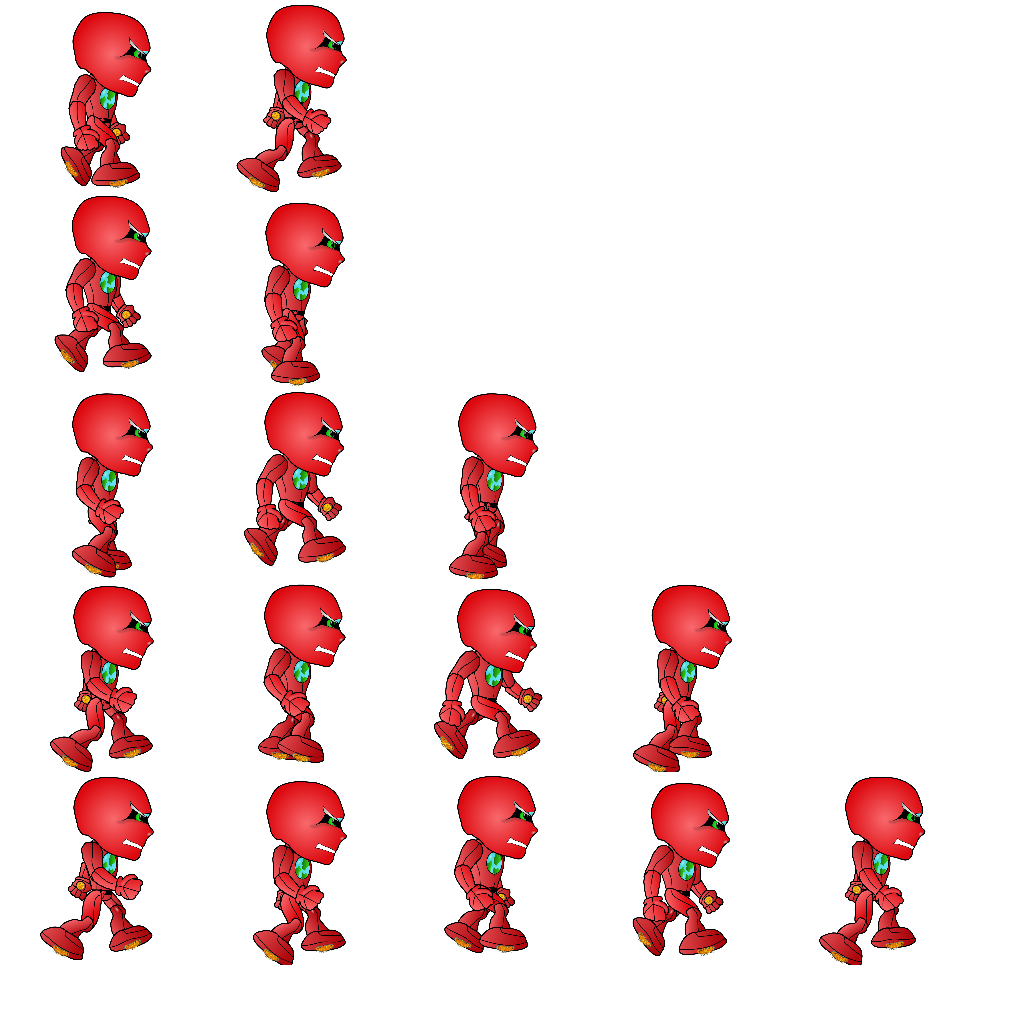
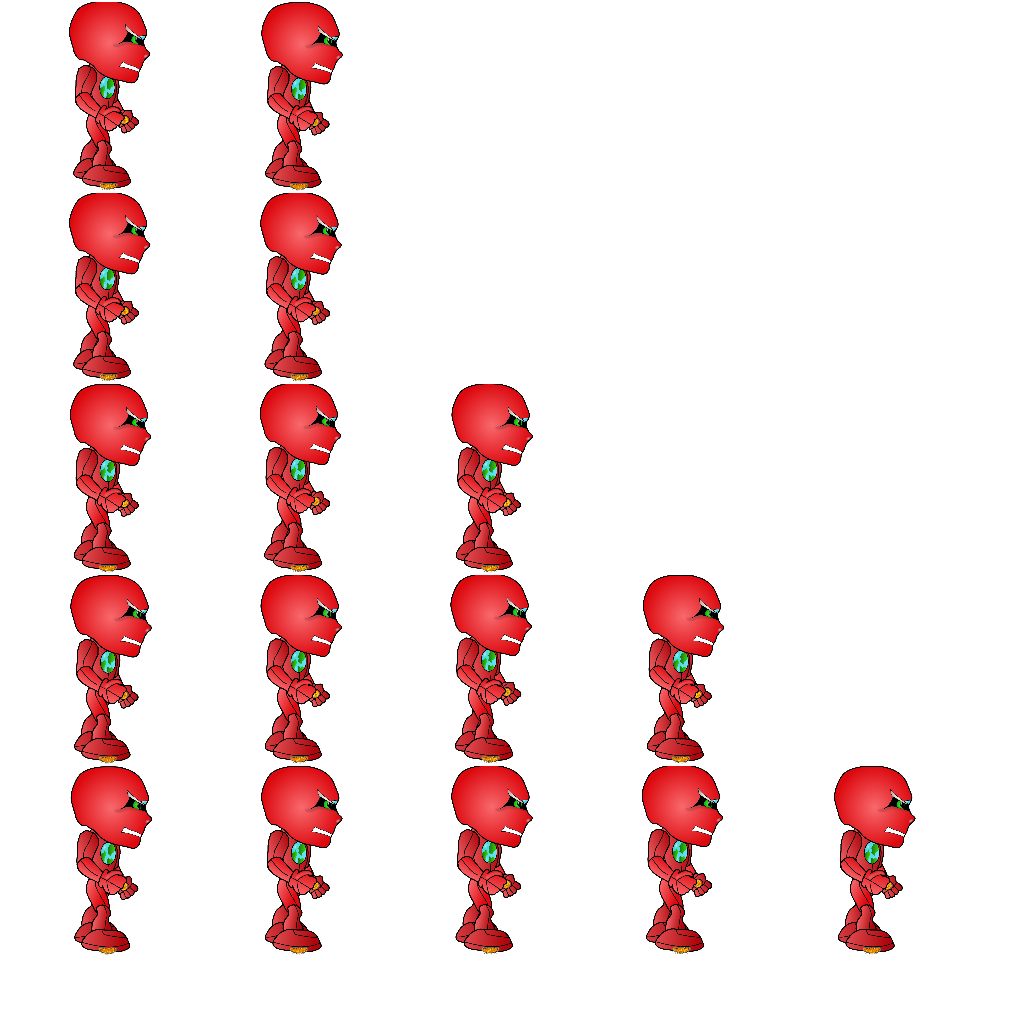
Add No Thrust Flying Animation

diff --git a/core/src/com/araceinspace/Managers/AnimationManager.java b/core/src/com/araceinspace/Managers/AnimationManager.java
@@ -73,6 +73,7 @@ public class AnimationManager {
     //private TextureAtlas jumpSidewaysAtlas;
    // private Array<TextureAtlas.AtlasRegion>jumpSidewaysRegion;
     private Animation  jumpSidewaysAnimation;
+    private Animation flyingNoThrustAnimation;
 
 
 
@@ -91,6 +92,11 @@ public class AnimationManager {
     }
 
     /* Private Methods */
+
+    private void setFlyingNoThrustAnimation(){
+        Array<TextureAtlas.AtlasRegion> flyingNoThrustRegion = heroAtlas.findRegions("FlyingNoThrust/FlyingNoThrust");
+        flyingNoThrustAnimation = new Animation(1/30f, flyingNoThrustRegion);
+    }
 
     private void setupJumpSidewaysAnimation(){
         /*
@@ -257,6 +263,7 @@ public class AnimationManager {
         setupRunSlowAnimation();
         setupRunFastAnimation();
         setupJumpSidewaysAnimation();
+        setFlyingNoThrustAnimation();
     }
 
 
@@ -314,6 +321,10 @@ public class AnimationManager {
 
     public Animation getRunFastAnimation(){
         return runFastAnimation;
+    }
+
+    public Animation getFlyingNoThrustAnimation(){
+        return flyingNoThrustAnimation;
     }
 
     public Animation getJumpSidewaysAnimation(){

diff --git a/core/src/com/araceinspace/GameObjectSubSystem/Components/PlayerGraphicsComponent.java b/core/src/com/araceinspace/GameObjectSubSystem/Components/PlayerGraphicsComponent.java
@@ -70,7 +70,11 @@ public class PlayerGraphicsComponent extends TwoDGraphicsComponent {
                 setAnimation(animationManager.getJumpForwardAnimation());
                 break;
             case FLYING:
-                setAnimation(animationManager.getFlyingAnimation());
+                if(!parent.getInput().upPressed){
+                    setAnimation(animationManager.getFlyingNoThrustAnimation());
+                }else{
+                    setAnimation(animationManager.getFlyingAnimation());
+                }
                 break;
             case LAND_FORWARD:
                 setAnimation(animationManager.getLandForwardAnimation());
@@ -92,7 +96,7 @@ public class PlayerGraphicsComponent extends TwoDGraphicsComponent {
                 break;
             case JUMP_SIDEWAYS:
                 setAnimation(animationManager.getJumpSidewaysAnimation());
-
+                break;
         }
     }
 
